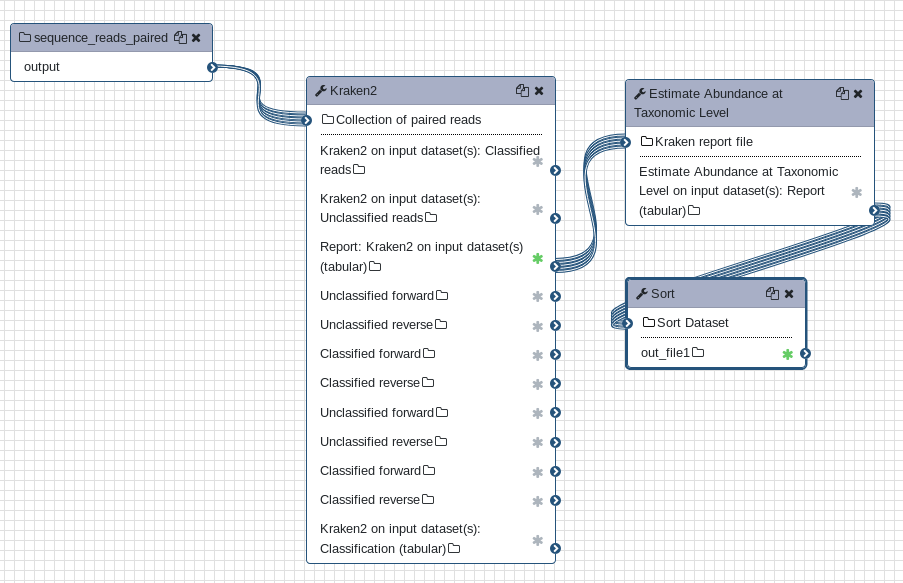
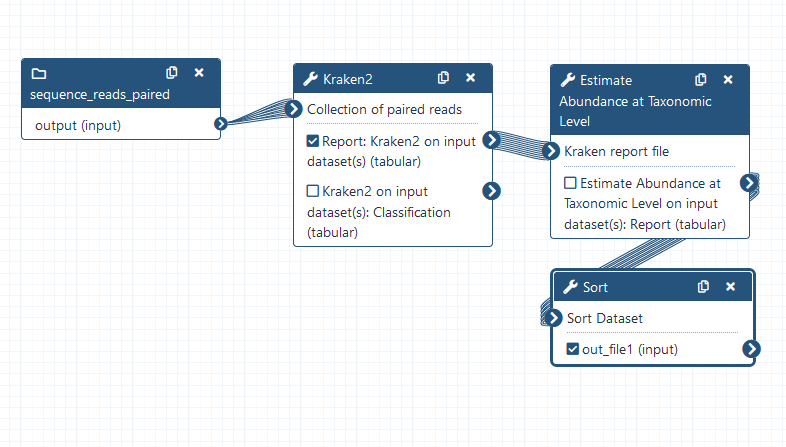
Add v0.2.0 workflow (#9)
* Add v0.2.0 workflow

* newlines

* Checkout newer IRIDA in CI workflow

* Test on java 8 and 11

* Update workflow diagram

* Update README

* only test on jdk8

diff --git a/src/main/java/org/publichealthbioinformatics/irida/plugin/speciesabundance/SpeciesAbundancePlugin.java b/src/main/java/org/publichealthbioinformatics/irida/plugin/speciesabundance/SpeciesAbundancePlugin.java
@@ -78,7 +78,7 @@ public class SpeciesAbundancePlugin extends Plugin {
 		 */
 		@Override
 		public UUID getDefaultWorkflowUUID() {
-			return UUID.fromString("e2cc19cc-defc-49df-9b23-db35c2aea71c");
+			return UUID.fromString("771c820c-6507-4dd7-91da-15944b064db0");
 		}
 
 		/*******************************************************************************

diff --git a/README.md b/README.md
@@ -38,10 +38,10 @@ managers within your Galaxy instance. These can be found at:
 
 ## Installing to IRIDA
 
-Please download the provided `irida-plugin-species-abundance-[version].jar` from the [releases][] page and copy to your 
-`/etc/irida/plugins` directory.  Now you may start IRIDA and you should see the pipeline appear in your list of pipelines.
+Please download the provided `irida-plugin-species-abundance-[version].jar` from the [releases][https://github.com/Public-Health-Bioinformatics/irida-plugin-species-abundance/releases]
+page and copy to your  `/etc/irida/plugins` directory.  Now you may start IRIDA and you should see the pipeline appear in your list of pipelines.
 
-*Note:* This plugin requires you to be running IRIDA version >= `19.01`. Please see the [IRIDA][] documentation for more details.
+*Note:* This plugin requires you to be running IRIDA version >= `21.01`. Please see the [IRIDA documentation][https://phac-nml.github.io/irida-documentation/developer/tools/pipelines/] for more details.
 
 # Usage
 
